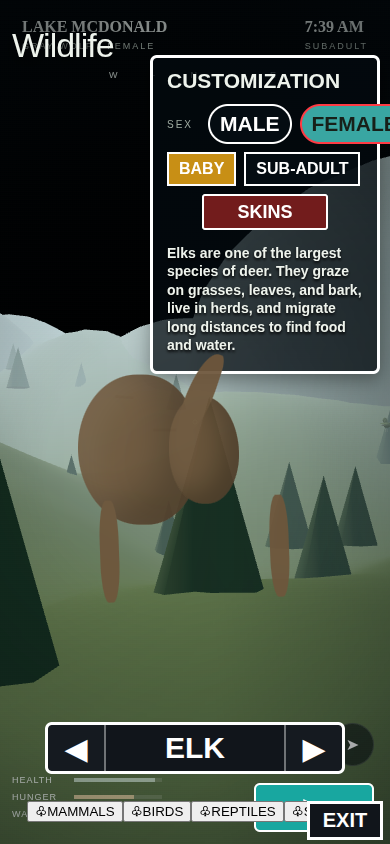
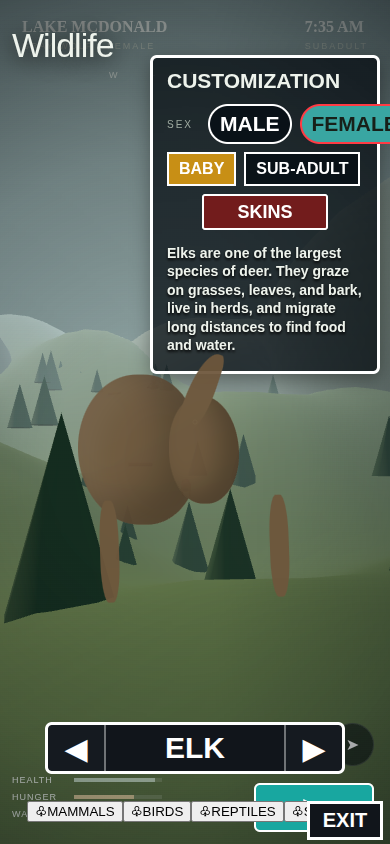
Publish static build for issue #1
Run: 45282669506
Attempt: 1
Generation: 18
Source: 6dcb31cd1cbc92990341d30b6026dbf2b68e6003

diff --git a/game.js b/game.js
@@ -7,9 +7,9 @@ const grid=document.querySelector('#speciesGrid');let selected=9,sex='Female';an
 function stepSpecies(delta){selected=(selected+delta+animals.length)%animals.length;updatePortrait()}document.querySelector('#prevSpecies')?.addEventListener('click',()=>stepSpecies(-1));document.querySelector('#nextSpecies')?.addEventListener('click',()=>stepSpecies(1));
 document.querySelectorAll('.sex').forEach(b=>b.onclick=()=>{document.querySelectorAll('.sex').forEach(x=>x.classList.remove('active'));b.classList.add('active');sex=b.dataset.sex;updatePortrait()});
 
-const scene=new THREE.Scene();scene.fog=new THREE.FogExp2(0xb7c6bc,.0019);
+const scene=new THREE.Scene();scene.background=new THREE.Color(0x91a6a5);scene.fog=new THREE.FogExp2(0x9aa99f,.00135);
 const camera=new THREE.PerspectiveCamera(55,innerWidth/innerHeight,.1,3000);const renderer=new THREE.WebGLRenderer({antialias:true,powerPreference:'high-performance'});renderer.setSize(innerWidth,innerHeight);renderer.setPixelRatio(Math.min(devicePixelRatio,2));renderer.shadowMap.enabled=true;renderer.shadowMap.type=THREE.PCFSoftShadowMap;document.querySelector('#game').appendChild(renderer.domElement);
-const hemi=new THREE.HemisphereLight(0xd8e7ed,0x4d583a,2.1);scene.add(hemi);const sun=new THREE.DirectionalLight(0xfff1c7,2.5);sun.position.set(-180,220,-120);sun.castShadow=true;sun.shadow.mapSize.set(2048,2048);sun.shadow.camera.left=sun.shadow.camera.right=650;sun.shadow.camera.top=sun.shadow.camera.bottom=650;scene.add(sun);
+const hemi=new THREE.HemisphereLight(0xdce9ef,0x59613f,2.35);scene.add(hemi);const sun=new THREE.DirectionalLight(0xffedbd,3.25);sun.position.set(-180,220,-120);sun.castShadow=true;sun.shadow.mapSize.set(2048,2048);sun.shadow.camera.left=sun.shadow.camera.right=650;sun.shadow.camera.top=sun.shadow.camera.bottom=650;scene.add(sun);renderer.toneMapping=THREE.ACESFilfilmicToneMapping;renderer.toneMappingExposure=1.05;
 
 const geo=new THREE.PlaneGeometry(1800,1800,90,90);const pos=geo.attributes.position;for(let i=0;i<pos.count;i++){const x=pos.getX(i),y=pos.getY(i);const dist=Math.sqrt(x*x+y*y);let z=22*Math.sin(x*.018)*Math.sin(y*.017)+12*Math.cos(x*.031+y*.014);z+=Math.max(0,(dist-260)/3.5);pos.setZ(i,z)}geo.computeVertexNormals();const ground=new THREE.Mesh(geo,new THREE.MeshStandardMaterial({color:0x536b43,roughness:.95}));ground.rotation.x=-Math.PI/2;ground.receiveShadow=true;scene.add(ground);
 
@@ -27,6 +27,50 @@ const logGeo=new THREE.CylinderGeometry(.9,.9,13,8);for(let i=0;i<35;i++){const 
 function groundHeight(x,z){return 22*Math.sin(x*.018)*Math.sin(z*.017)+12*Math.cos(x*.031+z*.014)+Math.max(0,(Math.sqrt(x*x+z*z)-260)/3.5)}
 
 const speciesSpeeds={Wolf:{walk:.035,trot:.065,run:.11,sprint:.17},Coyote:{walk:.038,trot:.07,run:.12,sprint:.19},Bear:{walk:.032,trot:.058,run:.095,sprint:.14},Cat:{walk:.04,trot:.075,run:.13,sprint:.21},Fox:{walk:.04,trot:.073,run:.125,sprint:.20},Ungulate:{walk:.045,trot:.09,run:.16,sprint:.24},Mammal:{walk:.038,trot:.068,run:.115,sprint:.18},Bird:{walk:.025,trot:.05,run:.09,sprint:.14}};
+
+function makeRealisticElk(g, fur, isMale, sex) {
+  // Refined elk anatomy: sloping back, broad chest, long neck, tapered face,
+  // defined legs, muzzle, ears, and a warm winter coat with a pale rump.
+  const ellipse=(sx,sy,sz,mat=fur,segments=28)=>{const m=new THREE.Mesh(new THREE.SphereGeometry(1,segments,18),mat);m.scale.set(sx,sy,sz);m.castShadow=true;m.receiveShadow=true;return m};
+  const dark=new THREE.MeshStandardMaterial({color:0x3d3428,roughness:.88});
+  const light=new THREE.MeshStandardMaterial({color:0xd9cda9,roughness:.9});
+  const nose=new THREE.MeshStandardMaterial({color:0x171713,roughness:.72});
+
+  const body=ellipse(5.9,2.55,2.15,fur,32);body.position.set(-.2,.65,0);body.rotation.z=-.035;g.add(body);
+  const shoulder=ellipse(2.85,3.15,2.32,fur,30);shoulder.position.set(3.65,.35,0);g.add(shoulder);
+  const haunch=ellipse(2.25,2.55,2.24,fur,30);haunch.position.set(-4.2,.25,0);g.add(haunch);
+  const neck=ellipse(1.65,3.55,1.62,fur,26);neck.position.set(5.15,2.55,0);neck.rotation.z=-.35;g.add(neck);
+  const head=ellipse(2.05,1.72,1.48,fur,24);head.position.set(6.55,4.65,0);head.rotation.z=.10;g.add(head);
+  const bridge=ellipse(1.78,.78,1.18,fur,22);bridge.position.set(7.95,3.75,0);bridge.rotation.z=-.48;g.add(bridge);
+  const muzzle=ellipse(1.65,.72,1.22,light,22);muzzle.position.set(8.72,3.05,0);g.add(muzzle);
+  const nostrils=ellipse(.42,.28,.25,nose,12);nostrils.position.set(10.25,3.02,0);nostrils.scale.z=.75;g.add(nostrils);
+
+  // Mane and darker neck shading.
+  for(let i=0;i<7;i++){const hair=ellipse(.62,1.15+i*.08,.18,dark,12);hair.position.set(4.45+i*.28,3.0-i*.18,0);hair.rotation.z=-.55+i*.025;g.add(hair)}
+  const rump=ellipse(2.15,.95,2.18,light,24);rump.position.set(-5.55,.9,0);rump.scale.z=1.02;g.add(rump);
+
+  for(const side of [-1,1]){
+    const ear=ellipse(.55,1.55,.28,fur,16);ear.position.set(6.25,6.15,side*1.48);ear.rotation.z=side*.30;ear.rotation.x=side*.12;g.add(ear);
+    const inner=ellipse(.32,.95,.12,light,12);inner.position.set(6.32,6.12,side*1.69);inner.rotation.z=side*.30;g.add(inner);
+    const eye=new THREE.Mesh(new THREE.SphereGeometry(.18,12,8),nose);eye.position.set(7.52,4.92,side*1.18);g.add(eye);
+    const eyeGlint=new THREE.Mesh(new THREE.SphereGeometry(.045,8,6),new THREE.MeshBasicMaterial({color:0xeef2dc}));eyeGlint.position.set(7.61,5.02,side*1.23);g.add(eyeGlint);
+
+    if(isMale||sex==='Male'){
+      const antlerMat=new THREE.MeshStandardMaterial({color:0x7a6748,roughness:.65,metalness:.03});
+      const main=new THREE.Mesh(new THREE.CapsuleGeometry(.24,6.2,7,12),antlerMat);main.position.set(6.15,7.45,side*1.75);main.rotation.z=-side*.42;main.rotation.x=side*.48;main.castShadow=true;g.add(main);
+      for(let r=0;r<6;r++){const length=1.55+r*.18;const tine=new THREE.Mesh(new THREE.CapsuleGeometry(.13,length,5,8),antlerMat);tine.position.set(6.45+r*.36,7.55+r*.72,side*(1.86+r*.10));tine.rotation.z=side*(.58+r*.10);tine.rotation.x=side*.18;tine.castShadow=true;g.add(tine)}
+    }
+  }
+
+  g.userData.legs=[];
+  for(const side of [-1,1])for(const fore of [-1,1]){
+    const x=fore*3.65-(fore>0?.35:0),z=side*1.62;
+    const upper=ellipse(.48,2.65,.48,fur,16);upper.position.set(x,-2.05,z);g.add(upper);
+    const lower=ellipse(.38,2.9,.38,dark,14);lower.position.set(x+(fore>0?.18:-.12),-5.15,z);g.add(lower);
+    const hoof=new THREE.Mesh(new THREE.CapsuleGeometry(.48,.72,5,10),new THREE.MeshStandardMaterial({color:0x171713,roughness:.75}));hoof.position.set(lower.position.x,-7.82,z);hoof.scale.set(1,.55,.85);hoof.castShadow=true;g.add(hoof);g.userData.legs.push(lower);
+  }
+  g.userData.body=body;
+}
 
 function makeAnimal(a,isMale=false){
  const col=a[2]==='white'?0xe9ede4:a[2]==='brown'?0x6d563b:a[2]==='red'?0xb64c31:a[2]==='snow'?0xc4c5bc:a[2]==='tan'?0xa28a62:a[2]==='dark'?0x3d352d:a[2]==='gray'?0x777c75:a[2]==='black'?0x252927:a[2]==='green'?0x536941:a[2]==='sand'?0xb69a72:a[2]==='ginger'?0x9a6a43:0x7a6f5c;
@@ -48,6 +92,7 @@ function makeAnimal(a,isMale=false){
   g.userData.body=body;
  } else {
   const ungulate=kind==='Ungulate',bear=kind==='Bear',cat=kind==='Cat',fox=kind==='Fox',longMuzzle=['Gray Wolf','Coyote','Red Fox','Wolverine'].includes(name);
+  if(name==='Elk'){makeRealisticElk(g,fur,isMale,a[0]);g.userData.kind=kind;g.userData.gait='walk';g.userData.fur=fur;return g}
   const body=ellipse(ungulate?5.8:bear?5.8:4.8,ungulate?3.0:bear?3.7:3.1,ungulate?2.4:bear?3.1:2.5,fur,22);body.position.y=.45;g.add(body);
   const shoulder=ellipse(bear?3.2:2.4,bear?3.5:2.8,ungulate?2.45:2.4,fur,18);shoulder.position.set(ungulate?3.7:3.9,bear?1.0:1.0,0);g.add(shoulder);
   const head=ellipse(longMuzzle?2.9:2.35,ungulate?2.7:bear?2.55:2.2,2.15,fur,18);head.position.set(ungulate?6.2:6.1,ungulate?2.1:bear?.2:.7,0);g.add(head);
